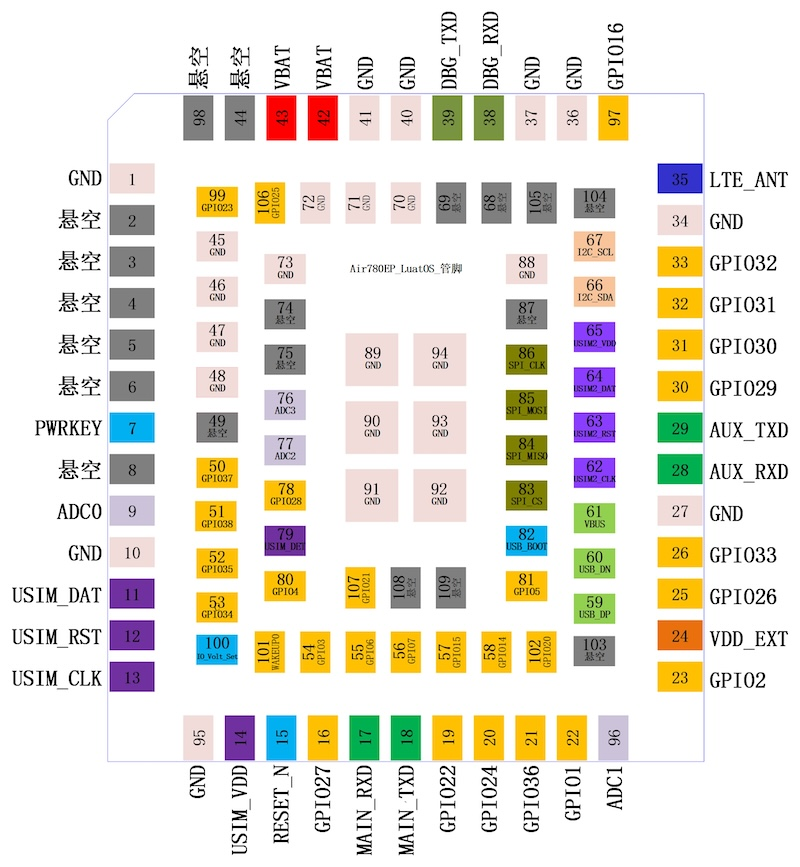
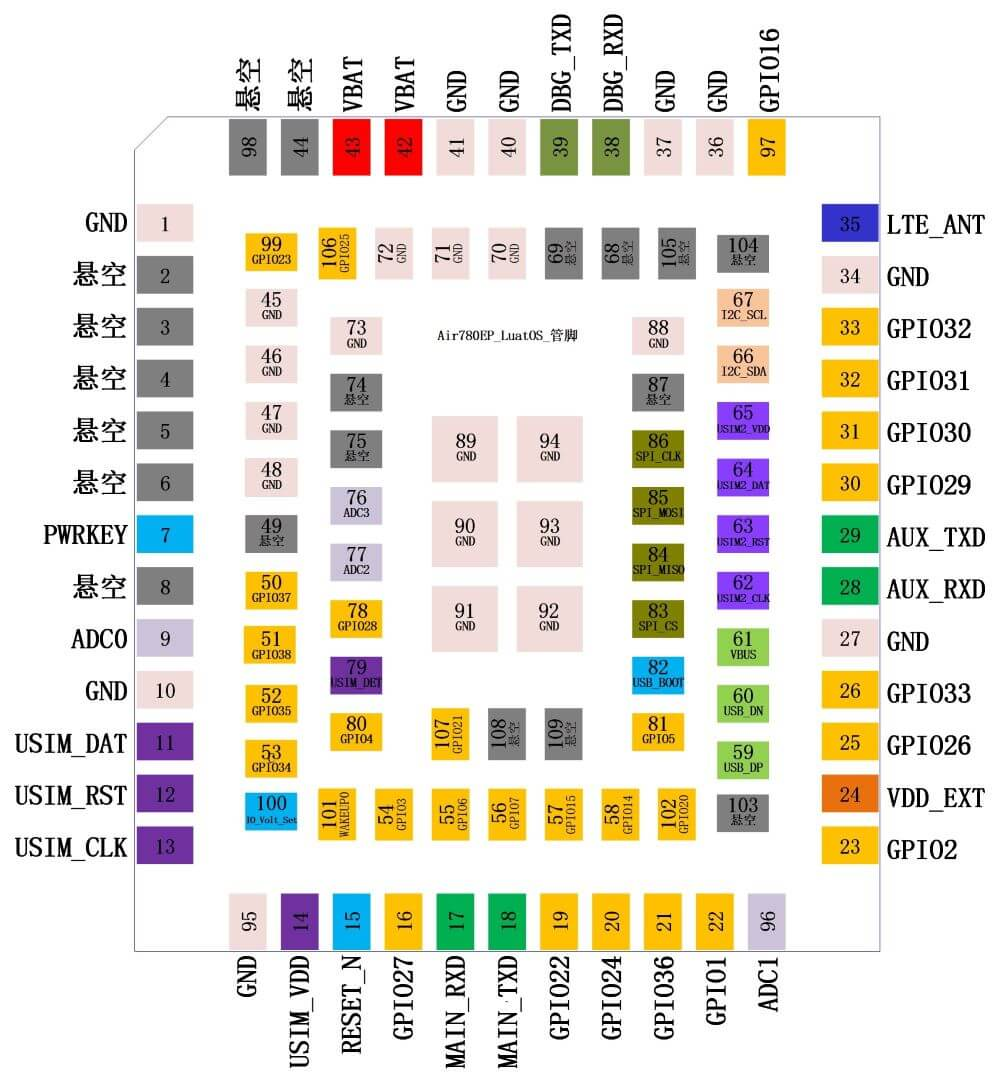
update some test

diff --git a/Air780E/README.md b/Air780E/README.md
@@ -1,0 +1,49 @@
+## Air780E 说明
+
+### 官方文档
+- Air780E 说明：https://docs.openluat.com/air780e/
+- AT 固件说明：https://docs.openluat.com/air780e/at/app/
+- LuatOS 固件：https://docs.openluat.com/air780e/luatos/firmware/
+
+### 改 USB 供电
+
+设备原生几乎都不支持 USB 5V 供电，但可以使用 12V 供电，电路上通过 5430 芯片的方案降压到 5V，再通过 CFJ3F 丝印的芯片相关电路把 5V 降压到 3.85V 左右，直接供给 Air780E 的 VBAT 电源引脚。
+
+因此只需要把 USB 的 +5V 飞线连接到 5430 的 5V 输出端的滤波电容上，就可以实现 USB 供电，如果怕电流倒灌 USB，串联一个肖特基二极管即可。
+
+### 设备版本
+
+Air780E 有多种硬件版本，以下分别列出对应图片：
+
+#### 版本 1：4G-Air780E-TYPE_C_V03 (2026-04-15)
+<img src="../images/4G-Air780E-TYPE_C_V03 2026-04-15.jpg" width="400" alt="4G-Air780E-TYPE_C_V03">
+
+#### 版本 2：新版 4G Air780E 双路 V02 (2025-09-20)
+<img src="../images/新版4G Air780E 双路 V02 2025-09-20.jpg" width="400" alt="新版4G Air780E 双路 V02">
+
+#### 版本 3：4G-Air780E-USB-V00 (2026-04-14)
+<img src="../images/4G-Air780E-USB-V00 2026-04-14.jpg" width="400" alt="4G-Air780E-USB-V00">
+
+### 设备 IO 信息
+
+所有版本的 IO 连接都一致：
+
+| 外设 | GPIO | 说明 |
+| --- | --- | --- |
+| 绿色 LED | GPIO27 | 高电平点亮 |
+| 红色 LED | GPIO26 | 高电平点亮 |
+| CCP1 | IO25 | 机器控制引脚1，高低电平都有输出 |
+| CCP2 | IO29 | 机器控制引脚2，高低电平都有输出 |
+
+### 扩展 I2C OLED 屏接线
+
+| OLED | Air780E |
+| --- | --- |
+| VCC | 3.3V |
+| GND | GND |
+| SCL | IO30 |
+| SDA | IO31 |
+
+### 示例工程
+
+- `BoardIOTest/`：GPIO 测试示例，控制 LED 灯闪烁，用于验证硬件 IO 功能正常。

diff --git a/Air780EP/README.md b/Air780EP/README.md
@@ -1,0 +1,46 @@
+## Air780EP 说明
+
+### 官方文档
+1. Air780EP 说明：https://docs.openluat.com/air780ep/
+2. AT 固件说明：https://docs.openluat.com/air780ep/at/app/at_command/
+3. LuatOS 脚本开发：https://docs.openluat.com/air780ep/luatos/app/
+4. LuatOS 官方教程：https://docs.openluat.com/luatos_lesson/
+
+### 设备图片
+<img src="../images/Air780EP_LuatOS_2410.jpg" width="400" alt="Air780EP LuatOS 设备">
+
+### 设备特点
+
+Air780EP 是一款基于 EC618 芯片的 4G LTE Cat.1 通信模组，具有以下特点：
+
+- 支持 LTE-FDD、LTE-TDD、GSM/GPRS/EDGE 网络
+- 集成 GPS/北斗定位功能
+- 支持 LuatOS 脚本开发，开发便捷
+- 低功耗设计，适合物联网应用
+
+### 扩展 I2C OLED 屏接线
+
+| OLED | Air780EP |
+| --- | --- |
+| VCC | 3.3V |
+| GND | GND |
+| SCL | GPIO 30 |
+| SDA | GPIO 29 |
+
+### 与 Air780E 的区别
+
+Air780EP 和 Air780E 均基于 EC618 平台，大部分 LuatOS 脚本程序通用，但需注意以下区别：
+
+| 特性 | Air780EP | Air780E |
+| --- | --- | --- |
+| 封装 | SMD | SMD |
+| 价格 | 较低 | 稍高 |
+| 固件兼容性 | 需使用 Air780EP 固件 | 需使用 Air780E 固件 |
+
+### 示例工程
+
+本仓库提供的示例工程均支持 Air780EP：
+
+- `lbsLoc2/`：基站定位示例
+- `I2cShowTime/`：基于软件 I2C 的 OLED 时钟显示
+- `U8g2ShowTime/`：基于 u8g2 库的 OLED 时钟显示

diff --git a/README.md b/README.md
@@ -4,7 +4,8 @@
 
 项目目标不是只做单个 demo，而是持续沉淀一些可以直接刷入设备运行的小工具、小功能和硬件扩展示例，例如基站定位、OLED 时间显示、联网信息展示等。后续可以按功能逐步增加更多独立工程。
 
-![Air780EP LuatOS 设备](images/Air780EP_LuatOS_2410.jpg)
+<img src="images/Air780EP_LuatOS_2410.jpg" width="400" alt="Air780EP LuatOS 设备">
+<img src="images/Air780E_LuatOS_2410.jpg" width="400" alt="Air780E LuatOS 设备">
 
 ## 设备说明
 